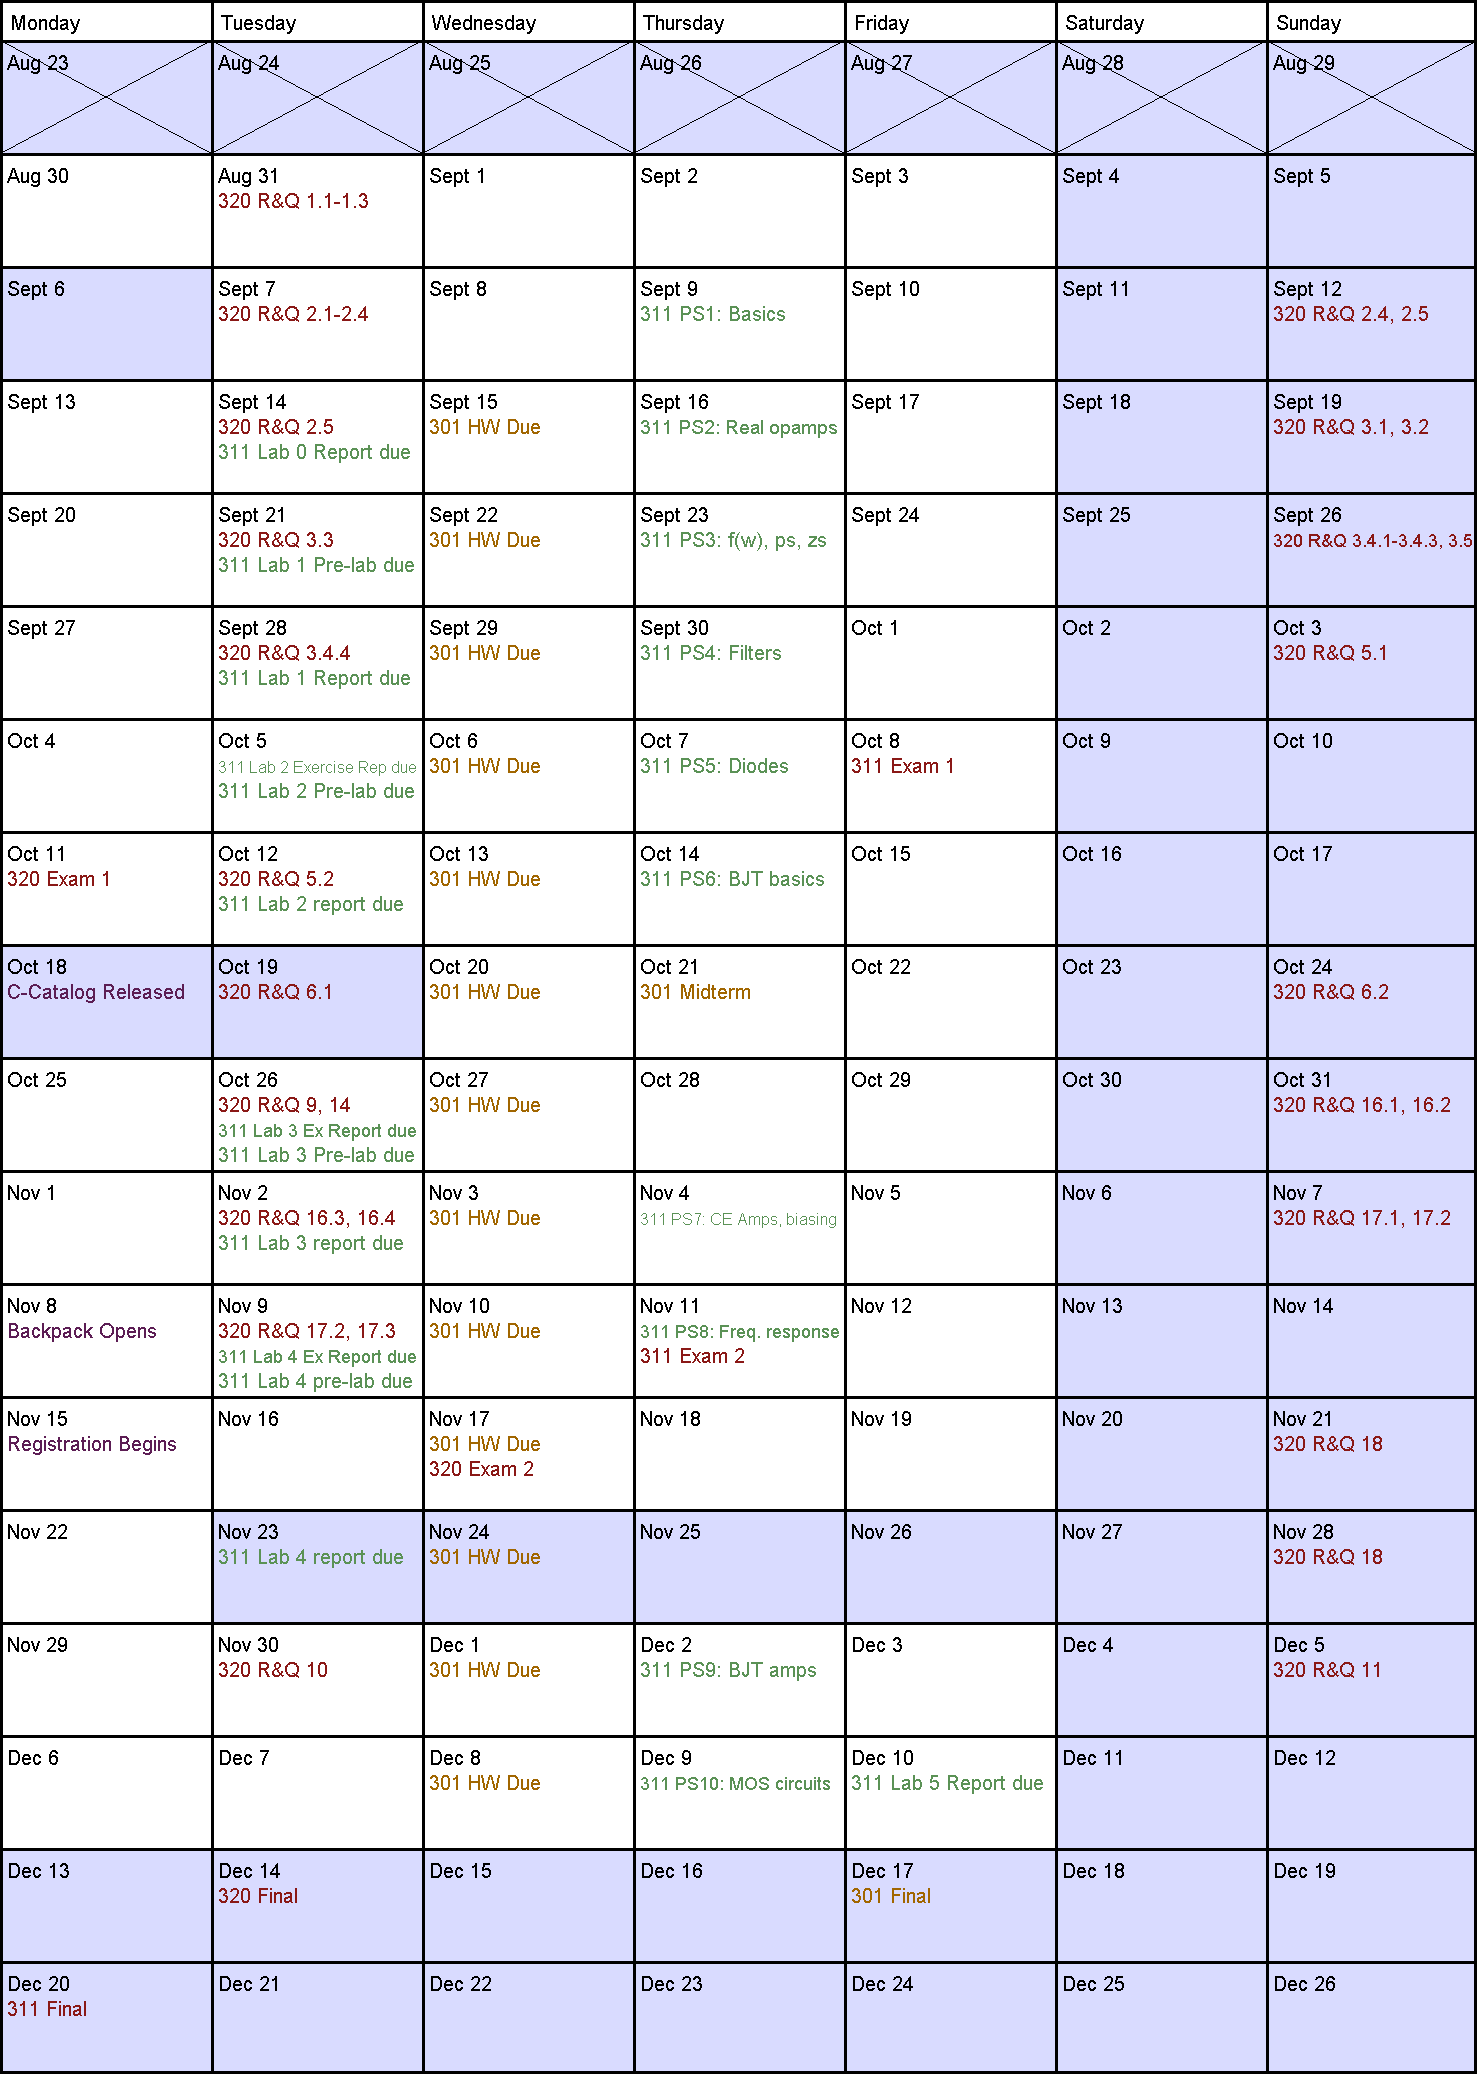
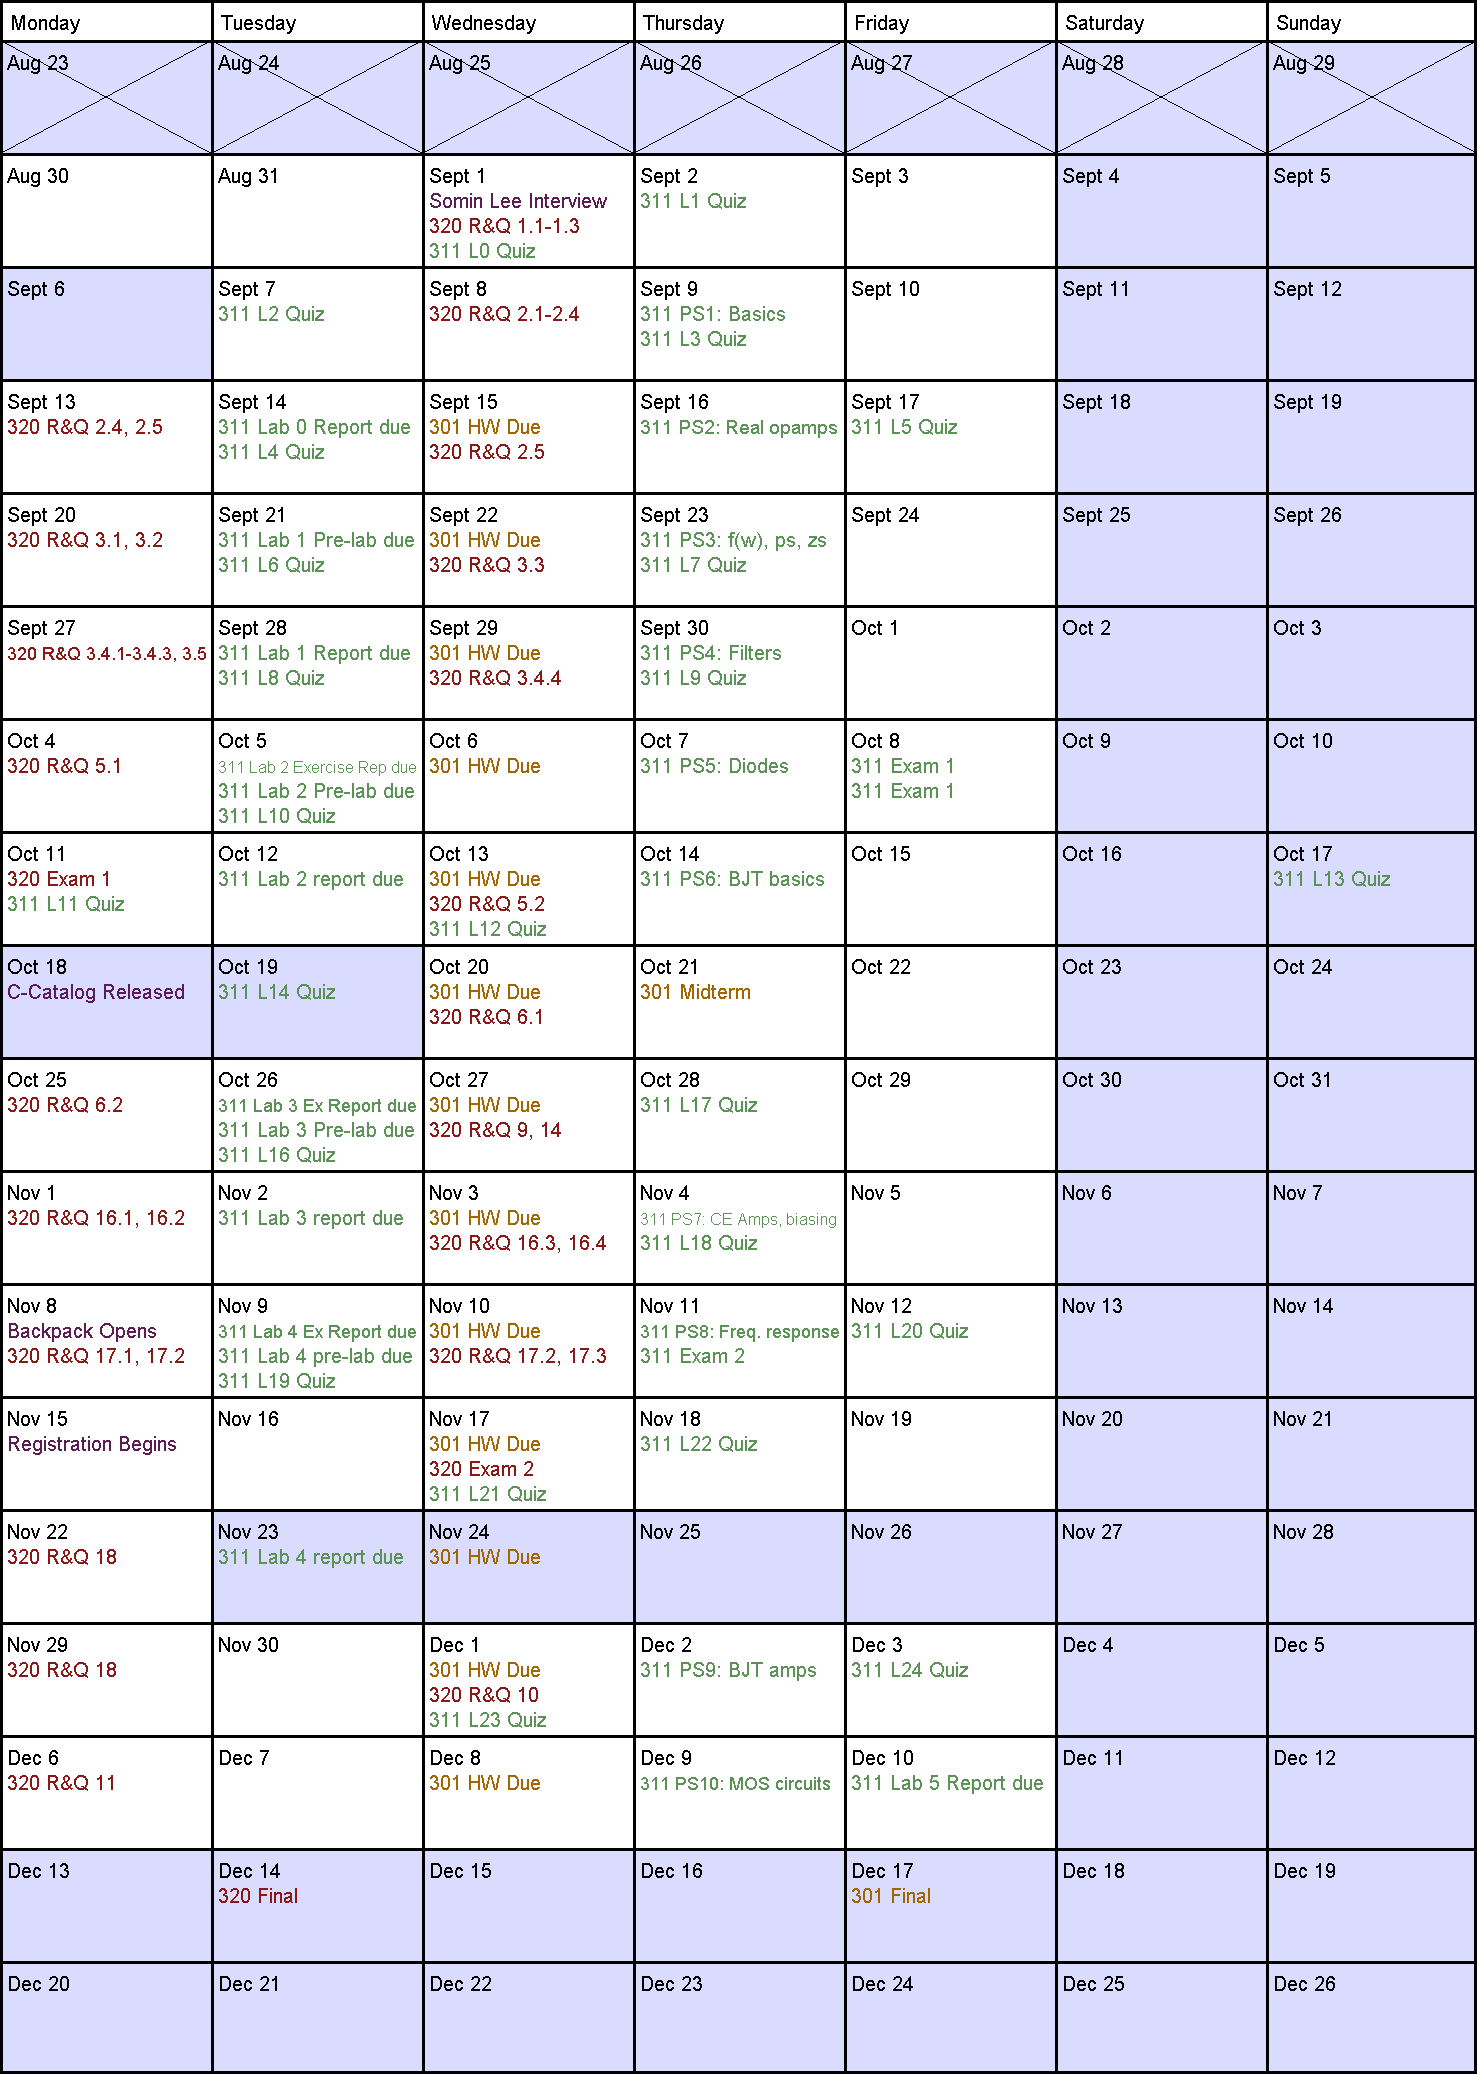
updated

diff --git a/src/Calendar.java b/src/Calendar.java
@@ -89,6 +89,7 @@ public class Calendar extends Applet implements Runnable, KeyListener {
         addEvent("C-Catalog Released ", getDayofYear(18,10), 4);
         addEvent("Backpack Opens", getDayofYear(8,11), 4);
         addEvent("Registration Begins", getDayofYear(15,11), 4);
+        addEvent("Somin Lee Interview", getDayofYear(1,9), 4);
 
         addEvent("301 Midterm", getDayofYear(21,10), 5);
         addEvent("301 Final", getDayofYear(17,12), 5);
@@ -98,9 +99,34 @@ public class Calendar extends Applet implements Runnable, KeyListener {
         addEvent("320 Exam 2", getDayofYear(17,11), 2);
         addEvent("320 Final", getDayofYear(14,12), 2);
 
-        addEvent("311 Exam 1", getDayofYear(8,10), 2);
-        addEvent("311 Exam 2", getDayofYear(11,11), 2);
-        addEvent("311 Final", getDayofYear(20,12), 2);
+        addEvent("311 Exam 1", getDayofYear(8,10), 3);
+        addEvent("311 Exam 1", getDayofYear(8,10), 3);
+        addEvent("311 Exam 2", getDayofYear(11,11), 3);
+
+        addEvent("311 L0 Quiz", getDayofYear(1,9), 3);
+        addEvent("311 L1 Quiz", getDayofYear(2,9), 3);
+        addEvent("311 L2 Quiz", getDayofYear(7,9), 3);
+        addEvent("311 L3 Quiz", getDayofYear(9,9), 3);
+        addEvent("311 L4 Quiz", getDayofYear(14,9), 3);
+        addEvent("311 L5 Quiz", getDayofYear(17,9), 3);
+        addEvent("311 L6 Quiz", getDayofYear(21,9), 3);
+        addEvent("311 L7 Quiz", getDayofYear(23,9), 3);
+        addEvent("311 L8 Quiz", getDayofYear(28,9), 3);
+        addEvent("311 L9 Quiz", getDayofYear(30,9), 3);
+        addEvent("311 L10 Quiz", getDayofYear(5,10), 3);
+        addEvent("311 L11 Quiz", getDayofYear(11,10), 3);
+        addEvent("311 L12 Quiz", getDayofYear(13,10), 3);
+        addEvent("311 L13 Quiz", getDayofYear(17,10), 3);
+        addEvent("311 L14 Quiz", getDayofYear(19,10), 3);
+        addEvent("311 L16 Quiz", getDayofYear(26,10), 3);
+        addEvent("311 L17 Quiz", getDayofYear(28,10), 3);
+        addEvent("311 L18 Quiz", getDayofYear(4,11), 3);
+        addEvent("311 L19 Quiz", getDayofYear(9,11), 3);
+        addEvent("311 L20 Quiz", getDayofYear(12,11), 3);
+        addEvent("311 L21 Quiz", getDayofYear(17,11), 3);
+        addEvent("311 L22 Quiz", getDayofYear(18,11), 3);
+        addEvent("311 L23 Quiz", getDayofYear(1,12), 3);
+        addEvent("311 L24 Quiz", getDayofYear(3,12), 3);
 
     }
 
@@ -146,7 +172,7 @@ public class Calendar extends Applet implements Runnable, KeyListener {
                         line=line.substring(1);
                     }
                     if (line.length()==0){i=12;continue;}
-                    addEvent("320 R&Q "+line, getDayofYear(date,i+1)-1, 2);
+                    addEvent("320 R&Q "+line, getDayofYear(date,i+1), 2);
                     i=12;
                 }
             }
